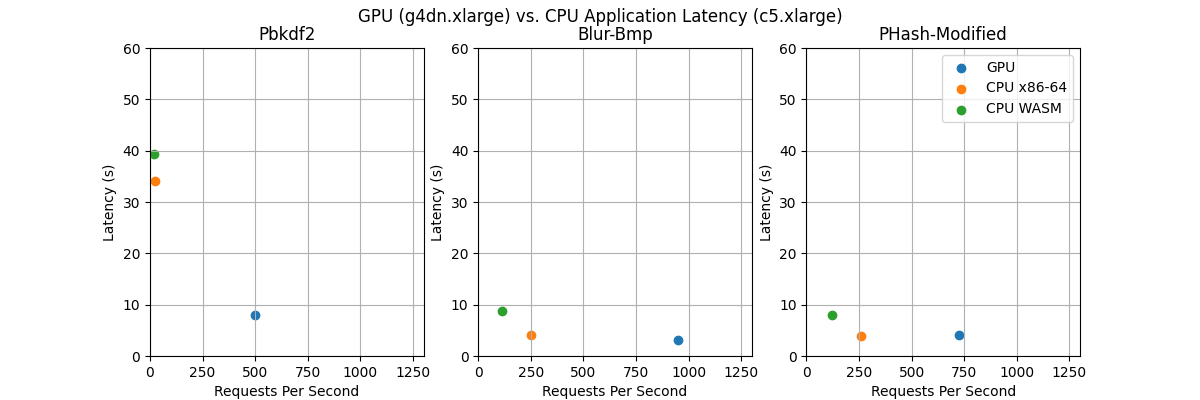
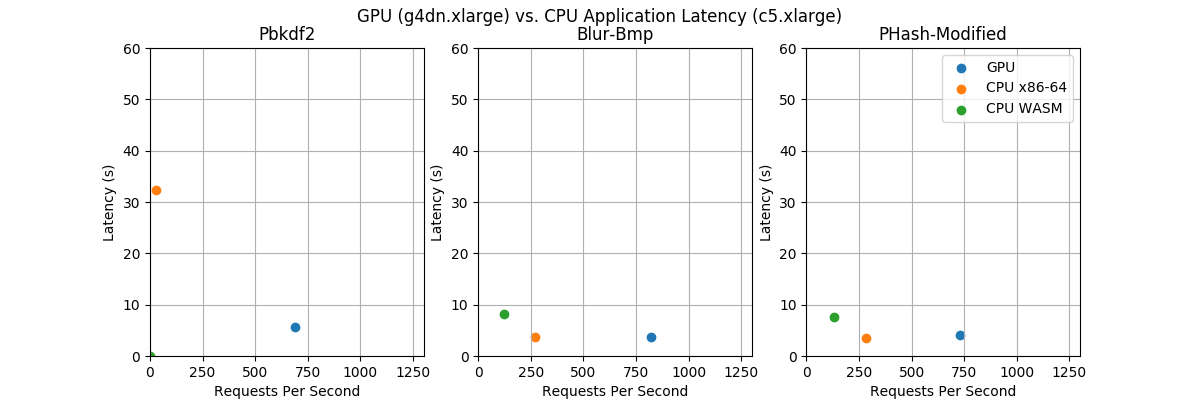
add benchmarks with larger partitions

diff --git a/benchmarks/run_benchmarks_aws.py b/benchmarks/run_benchmarks_aws.py
@@ -19,6 +19,8 @@ OPT_LEVEL="-O1 -g"
 WASM_SNIP_ARGS="--snip-rust-panicking-code"
 WASM_SNIP_CUSTOM="rust_oom __rg_oom"
 maxdemospace = 0
+maxfuncs = 999
+maxloc = 20000000
 
 today = datetime.now()
 temp_dir = today.strftime("%d_%m_%Y_%H_%M_%S_bench_results/")
@@ -228,8 +230,9 @@ def run_pbkdf2_bench():
     x=$(cloud-init status)
     done
 
-    /tmp/wasm2opencl/target/release/wasm2opencl --input /tmp/wasm2opencl/benchmarks/pbkdf2/target/wasm32-wasi/release/pbkdf2-opt.wasm --ip=0.0.0.0 --heap=3145728 --stack=262144 --hcallsize=131072 --partition=true --partitions=50 --maxloc=1000000 --serverless=true --vmcount=4096 --vmgroups=1 --maxdup=3 --lgroup={lgroup} --cflags={cflags} --interleave={interleave} --pinput={is_pretty} --fastreply={fastreply} --maxdemospace={maxdemo} &> /tmp/pbkdf2.log &
-    """.format(lgroup=local_group_size, cflags=CFLAGS, interleave=interleave, is_pretty=is_pretty, fastreply=fastreply, maxdemo=maxdemospace)
+    /tmp/wasm2opencl/target/release/wasm2opencl --input /tmp/wasm2opencl/benchmarks/pbkdf2/target/wasm32-wasi/release/pbkdf2-opt.wasm --ip=0.0.0.0 --heap=3145728 --stack=262144 --hcallsize=131072 --partition=true --partitions={maxfuncs} --maxloc={maxloc} --serverless=true --vmcount=4096 --vmgroups=1 --maxdup=3 --lgroup={lgroup} --cflags={cflags} --interleave={interleave} --pinput={is_pretty} --fastreply={fastreply} --maxdemospace={maxdemo} &> /tmp/pbkdf2.log &
+    """.format(lgroup=local_group_size, cflags=CFLAGS, interleave=interleave, is_pretty=is_pretty, fastreply=fastreply, maxdemo=maxdemospace, \
+               maxfuncs=maxfuncs, maxloc=maxloc)
 
     run_command(run_pbkdf2_command, "pbkdf2_gpu", gpu_instance[0].id)
 
@@ -357,8 +360,9 @@ def run_lz4_bench():
     x=$(cloud-init status)
     done
 
-    /tmp/wasm2opencl/target/release/wasm2opencl --input /tmp/wasm2opencl/benchmarks/json-compression/target/wasm32-wasi/release/json-compression-opt.wasm --ip=0.0.0.0 --heap=4194304 --stack=131072 --hcallsize=524288 --partition=true --serverless=true --vmcount=3072 --vmgroups=1 --maxdup=3 --partitions=50 --lgroup={lgroup} --cflags={cflags} --interleave={interleave} --pinput={is_pretty} --fastreply={fastreply} --maxdemospace={maxdemo} &> /tmp/json-compression.log &
-    """.format(lgroup=local_group_size, cflags=CFLAGS, interleave=interleave, is_pretty=is_pretty, fastreply=fastreply, maxdemo=maxdemospace)
+    /tmp/wasm2opencl/target/release/wasm2opencl --input /tmp/wasm2opencl/benchmarks/json-compression/target/wasm32-wasi/release/json-compression-opt.wasm --ip=0.0.0.0 --heap=4194304 --stack=131072 --hcallsize=524288 --partition=true --serverless=true --vmcount=3072 --vmgroups=1 --maxdup=3 --partitions={maxfuncs} --maxloc={maxloc} --lgroup={lgroup} --cflags={cflags} --interleave={interleave} --pinput={is_pretty} --fastreply={fastreply} --maxdemospace={maxdemo} &> /tmp/json-compression.log &
+    """.format(lgroup=local_group_size, cflags=CFLAGS, interleave=interleave, is_pretty=is_pretty, fastreply=fastreply, maxdemo=maxdemospace, \
+               maxfuncs=maxfuncs, maxloc=maxloc)
 
     run_command(run_json_lz4_command, "run_json_lz4_command", gpu_instance[0].id)
 
@@ -487,8 +491,9 @@ def run_average_bench():
     x=$(cloud-init status)
     done
 
-    /tmp/wasm2opencl/target/release/wasm2opencl --input /tmp/wasm2opencl/benchmarks/average/target/wasm32-wasi/release/average-opt.wasm --ip=0.0.0.0 --heap=3145728 --stack=131072 --hcallsize=524288 --partition=true --serverless=true --vmcount=4096 --wasmtime=false --maxdup=3 --lgroup={lgroup} --partitions=50 --maxloc=1000000 --cflags={cflags} --interleave={interleave} --pinput={is_pretty} --fastreply={fastreply} --maxdemospace={maxdemo} &> /tmp/average.log &
-    """.format(lgroup=local_group_size, cflags=CFLAGS, interleave=interleave, is_pretty=is_pretty, fastreply=fastreply, maxdemo=maxdemospace)
+    /tmp/wasm2opencl/target/release/wasm2opencl --input /tmp/wasm2opencl/benchmarks/average/target/wasm32-wasi/release/average-opt.wasm --ip=0.0.0.0 --heap=3145728 --stack=131072 --hcallsize=524288 --partition=true --serverless=true --vmcount=4096 --wasmtime=false --maxdup=3 --lgroup={lgroup} --partitions={maxfuncs} --maxloc={maxloc} --cflags={cflags} --interleave={interleave} --pinput={is_pretty} --fastreply={fastreply} --maxdemospace={maxdemo} &> /tmp/average.log &
+    """.format(lgroup=local_group_size, cflags=CFLAGS, interleave=interleave, is_pretty=is_pretty, fastreply=fastreply, maxdemo=maxdemospace, \
+               maxfuncs=maxfuncs, maxloc=maxloc)
 
     run_command(run_average_command, "run_average_command", gpu_instance[0].id)
 
@@ -619,8 +624,8 @@ def run_image_hash_bench(run_modified = False):
     x=$(cloud-init status)
     done
 
-    /tmp/wasm2opencl/target/release/wasm2opencl --input {imagehash_path}target/wasm32-wasi/release/imagehash-opt.wasm --ip=0.0.0.0 --heap=4194304 --stack=131072 --hcallsize=524288 --partition=true --serverless=true --vmcount=3072 --vmgroups=1 --maxdup=3 --disablefastcalls=false --partitions=50 --maxloc=1000000 --lgroup={lgroup} --cflags={cflags} --interleave={interleave} --pinput={is_pretty} --fastreply={fastreply} --maxdemospace={maxdemo} &> /tmp/imagehash.log &
-    """.format(lgroup=local_group_size, cflags=CFLAGS, interleave=interleave, is_pretty=is_pretty, fastreply=fastreply, maxdemo=maxdemospace, imagehash_path=imagehash_path)
+    /tmp/wasm2opencl/target/release/wasm2opencl --input {imagehash_path}target/wasm32-wasi/release/imagehash-opt.wasm --ip=0.0.0.0 --heap=4194304 --stack=131072 --hcallsize=524288 --partition=true --serverless=true --vmcount=3072 --vmgroups=1 --maxdup=2 --disablefastcalls=false --partitions={maxfuncs} --maxloc={maxloc} --lgroup={lgroup} --cflags={cflags} --interleave={interleave} --pinput={is_pretty} --fastreply={fastreply} --maxdemospace={maxdemo} &> /tmp/imagehash.log &
+    """.format(lgroup=local_group_size, cflags=CFLAGS, interleave=interleave, is_pretty=is_pretty, fastreply=fastreply, maxdemo=maxdemospace, imagehash_path=imagehash_path, maxfuncs=maxfuncs, maxloc=maxloc)
 
     run_command(run_image_command, "run_imagehash_gpu_command", gpu_instance[0].id)
 
@@ -768,8 +773,8 @@ def run_image_blur_bench(run_bmp = False):
     x=$(cloud-init status)
     done
 
-    /tmp/wasm2opencl/target/release/wasm2opencl --input {bin_path} --ip=0.0.0.0 --heap=4194304 --stack=262144 --hcallsize=524288 --partition=true --serverless=true --vmcount=3072 --vmgroups=1 --maxdup=3 --disablefastcalls=false --partitions=50 --maxloc=2000000 --lgroup={lgroup} --cflags={cflags} --interleave={interleave} --pinput={is_pretty} --fastreply={fastreply} --maxdemospace={maxdemo} &> /tmp/imageblur.log &
-    """.format(lgroup=local_group_size, cflags=CFLAGS, interleave=interleave, is_pretty=is_pretty, fastreply=fastreply, maxdemo=maxdemospace, bin_path=bin_path)
+    /tmp/wasm2opencl/target/release/wasm2opencl --input {bin_path} --ip=0.0.0.0 --heap=4194304 --stack=262144 --hcallsize=524288 --partition=true --serverless=true --vmcount=3072 --vmgroups=1 --maxdup=3 --disablefastcalls=false --partitions={maxfuncs} --maxloc={maxloc} --lgroup={lgroup} --cflags={cflags} --interleave={interleave} --pinput={is_pretty} --fastreply={fastreply} --maxdemospace={maxdemo} &> /tmp/imageblur.log &
+    """.format(lgroup=local_group_size, cflags=CFLAGS, interleave=interleave, is_pretty=is_pretty, fastreply=fastreply, maxdemo=maxdemospace, bin_path=bin_path, maxfuncs=maxfuncs, maxloc=maxloc)
 
     run_command(run_image_command, "run_imageblur_gpu_command", gpu_instance[0].id)
 
@@ -910,8 +915,8 @@ def run_nlp_count_bench():
     x=$(cloud-init status)
     done
 
-    /tmp/wasm2opencl/target/release/wasm2opencl --input /tmp/wasm2opencl/benchmarks/nlp-count-vectorizer/target/wasm32-wasi/release/nlp-count-vectorizer-opt.wasm --ip=0.0.0.0 --heap=4194304 --stack=131072 --hcallsize=524288 --partition=true --serverless=true --vmcount=3072 --vmgroups=1 --maxdup=3 --disablefastcalls=false --lgroup={lgroup} --maxloc=2000000 --cflags={cflags} --interleave={interleave} --pinput={is_pretty} --fastreply={fastreply} --maxdemospace={maxdemo} &> /tmp/nlp-count-vectorizer.log &
-    """.format(lgroup=local_group_size, cflags=CFLAGS, interleave=interleave, is_pretty=is_pretty, fastreply=fastreply, maxdemo=maxdemospace)
+    /tmp/wasm2opencl/target/release/wasm2opencl --input /tmp/wasm2opencl/benchmarks/nlp-count-vectorizer/target/wasm32-wasi/release/nlp-count-vectorizer-opt.wasm --ip=0.0.0.0 --heap=4194304 --stack=131072 --hcallsize=524288 --partition=true --serverless=true --vmcount=3072 --vmgroups=1 --maxdup=3 --disablefastcalls=false --lgroup={lgroup} --partitions={maxfuncs} --maxloc={maxloc} --cflags={cflags} --interleave={interleave} --pinput={is_pretty} --fastreply={fastreply} --maxdemospace={maxdemo} &> /tmp/nlp-count-vectorizer.log &
+    """.format(lgroup=local_group_size, cflags=CFLAGS, interleave=interleave, is_pretty=is_pretty, fastreply=fastreply, maxdemo=maxdemospace, maxfuncs=maxfuncs, maxloc=maxloc)
 
     run_command(run_nlp_command, "run_nlp_command", gpu_instance[0].id)
 
@@ -1085,7 +1090,16 @@ while True:
         time.sleep(10)
 
 ssm_client = boto3.client('ssm')
-"""
+
+# run image hash bench
+run_image_hash_bench(run_modified = False)
+
+cleanup()
+
+# run image hash bench
+
+run_image_hash_bench(run_modified = True)
+
 # run pbkdf2 bench
 run_pbkdf2_bench()
 
@@ -1114,16 +1128,6 @@ cleanup()
 run_image_blur_bench(run_bmp = False)
 
 cleanup()
-"""
-
-# run image hash bench
-run_image_hash_bench(run_modified = False)
-
-cleanup()
-
-# run image hash bench
-run_image_hash_bench(run_modified = True)
-
 
 # clean up all instances at end
 ec2.instances.filter(InstanceIds = instance_id_list).terminate()
